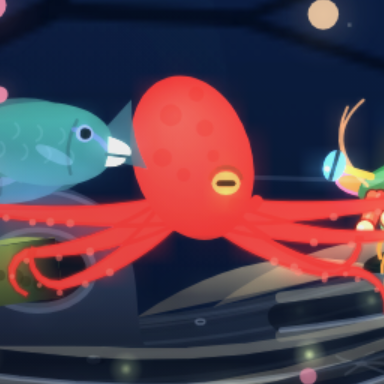
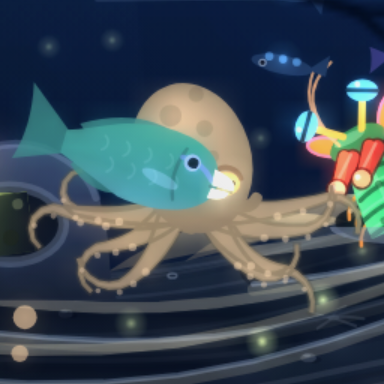
Octopus arms shortened to keep clear of the moray and the mantis shrimp

diff --git a/src/game/render/twilight.ts b/src/game/render/twilight.ts
@@ -1634,7 +1634,7 @@ export function createTwilightScene(seed: number): Scene {
     for (let a = 0; a < 8; a++) {
       const side = a < 4 ? -1 : 1;
       const k = a % 4;
-      const reach = (12 + k * 3) * s * (1 + 0.3 * moving);
+      const reach = (8.5 + k * 2.6) * s * (1 + 0.3 * moving);
       const wave = Math.sin(t * (moving ? 6 : 0.8) + a * 1.3) * 3 * s;
       const x0 = side * 2 * s, y0 = 2 * s, cx = side * reach * 0.5, cy = 6 * s + wave, x1 = side * reach, y1 = 8 * s - k * 1.5 * s + wave;
       const at = (u: number): [number, number] => [(1 - u) * (1 - u) * x0 + 2 * (1 - u) * u * cx + u * u * x1, (1 - u) * (1 - u) * y0 + 2 * (1 - u) * u * cy + u * u * y1];

diff --git a/docs/PROGRESS.md b/docs/PROGRESS.md
@@ -1503,3 +1503,4 @@ date, what landed, what is half-done, what's next.
 - Every zone's corner foreground (the dark out-of-focus sea fan and weed blades) grew from the reef's seed, so the same fan framed the Silt Floor, the Midnight Water, the Twilight, the Sunlit Crown and the Breach. Each scene seeds its own now (seed ^ a constant per zone): a different fan in each. Cost unchanged (the layer is cached at quarter resolution).
 - Overlaps again after the text-wrap rules (dots, ×, metres, pretty) and the new fans: all 54 viewport × stage checks clean.
 - The Twilight's octopus redrawn: its arms are tapered ribbons (one polygon each, not three strokes) whose tips curl over, alternately up and under and breathing slowly, with a web of darker skin between them near the body and suckers shrinking toward the tip; in REDRAWN with the jelly.
+- The octopus's curled tips lengthened each arm by ~6 m of screen, over the moray's hole and the mantis shrimp: the reach is shortened so arm plus curl is as long as the old straight arm; collide clean at bot 9000.
